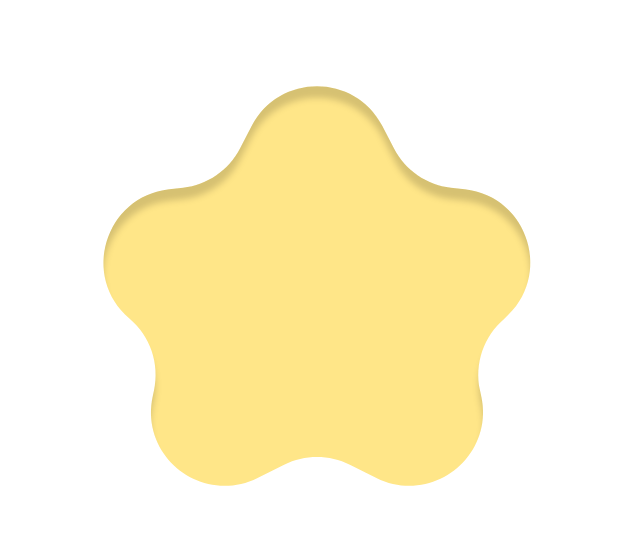
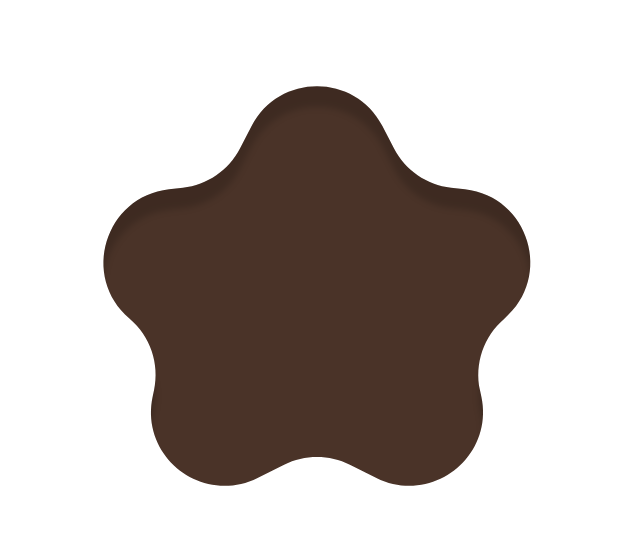
add ap poligon background to my jumbotron

diff --git a/common/components/home/index.tsx b/common/components/home/index.tsx
@@ -3,22 +3,26 @@ import Button from "../button/button.component";
 
 const Home = () => {
     return (
-        <div className="bg-gray-dark py-10 ">
+        <div className=" pb-10 bg-gray-dark ">
+            {/* Background poligons */}
+
             {/* jumbotron */}
-            <Image
-                src="/images/home/bottleWine.png"
-                width={300}
-                height={200}
-                alt="bottle of wine"
-                className="mx-auto"
-            />
-            <h2 className="text-white text-3xl font-bold w-[330px] mx-auto my-8 ">
-                Welcome to the world of wines, where taste and aroma blend with
-                art and passion.
-            </h2>
+            <div className="bg-[url('/images/home/Polygon1.png')]  bg-[left_bottom_5rem] bg-no-repeat pt-10">
+                <Image
+                    src="/images/home/bottleWine.png"
+                    width={300}
+                    height={200}
+                    alt="bottle of wine"
+                    className="mx-auto"
+                />
+                <h2 className="text-white text-3xl font-bold w-[330px] mx-auto my-8 ">
+                    Welcome to the world of wines, where taste and aroma blend
+                    with art and passion.
+                </h2>
+            </div>
 
             {/* review  */}
-            <div className="flex justify-between items-center text-lg gap-2">
+            <div className="flex justify-between items-center text-lg gap-2 bg-[url('/images/home/Polygon2.png')]">
                 <div className=" py-3  rounded-2xl px-8 leading-5 backdrop-blur-lg bg-white/30">
                     <p className="backdrop-shadow-lg">
                         &quot;Wines vary in taste, aroma, origin,
@@ -32,9 +36,9 @@ const Home = () => {
                     More Reviews
                 </div>
             </div>
-            {/* Background poligons */}
 
-            <div className="flex flex-col gap-5 mt-12 items-end mr-12">
+            {/* Buttons */}
+            <div className="flex flex-col gap-5 mt-12 items-end mr-12 bg-[url('/images/home/Polygon3.png')]">
                 <Button type="buy">Buy Now</Button>
                 <Button type="read">Read More</Button>
             </div>
